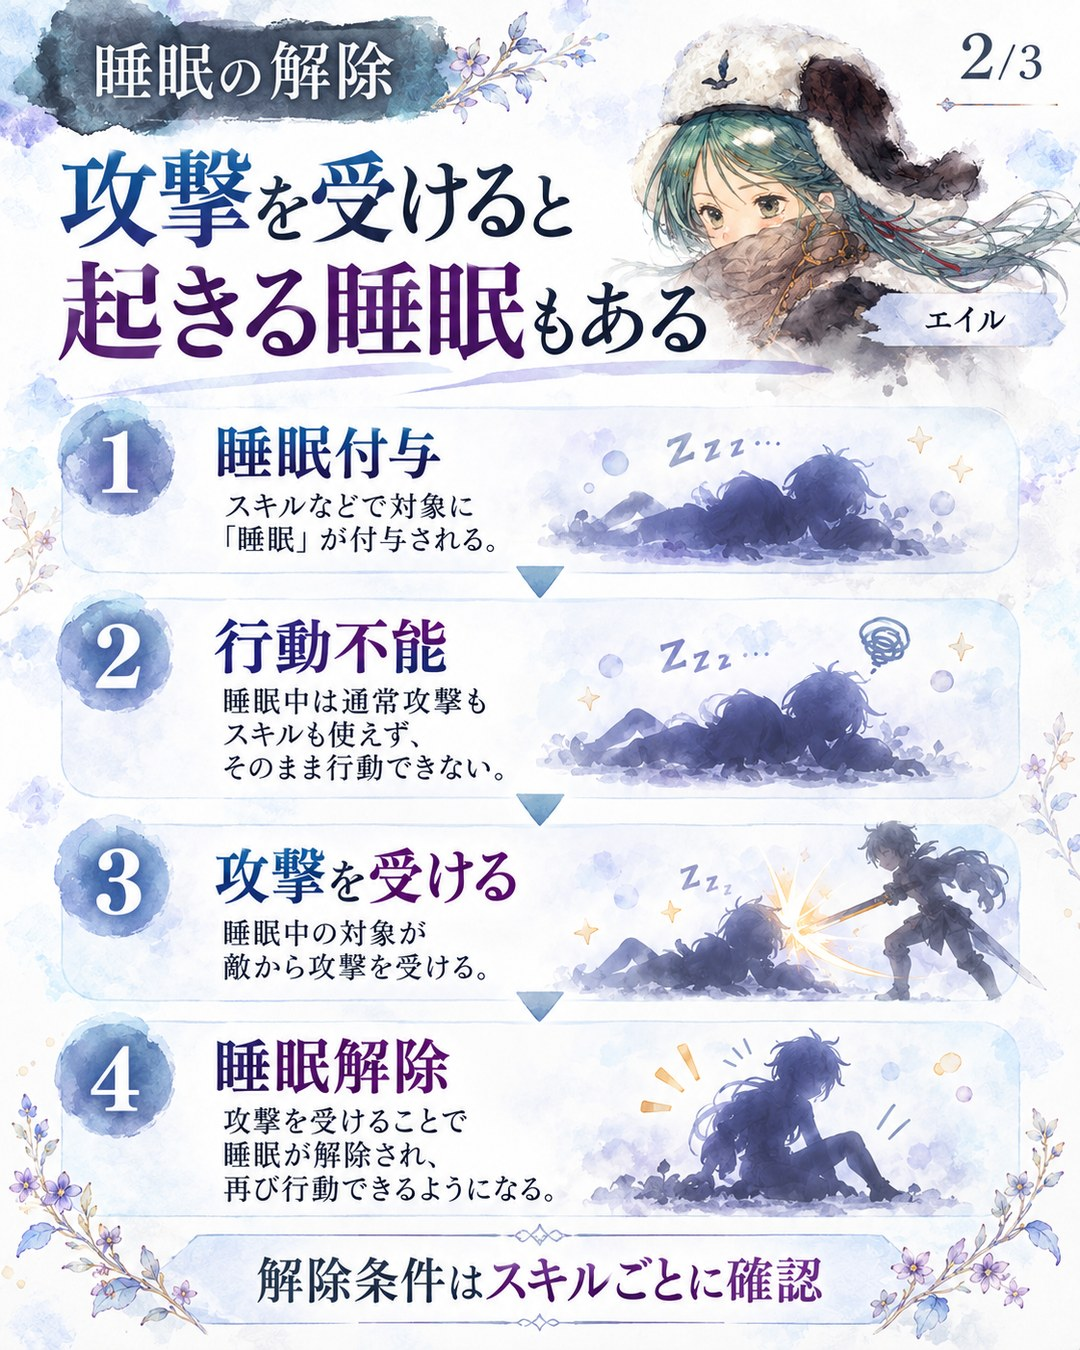
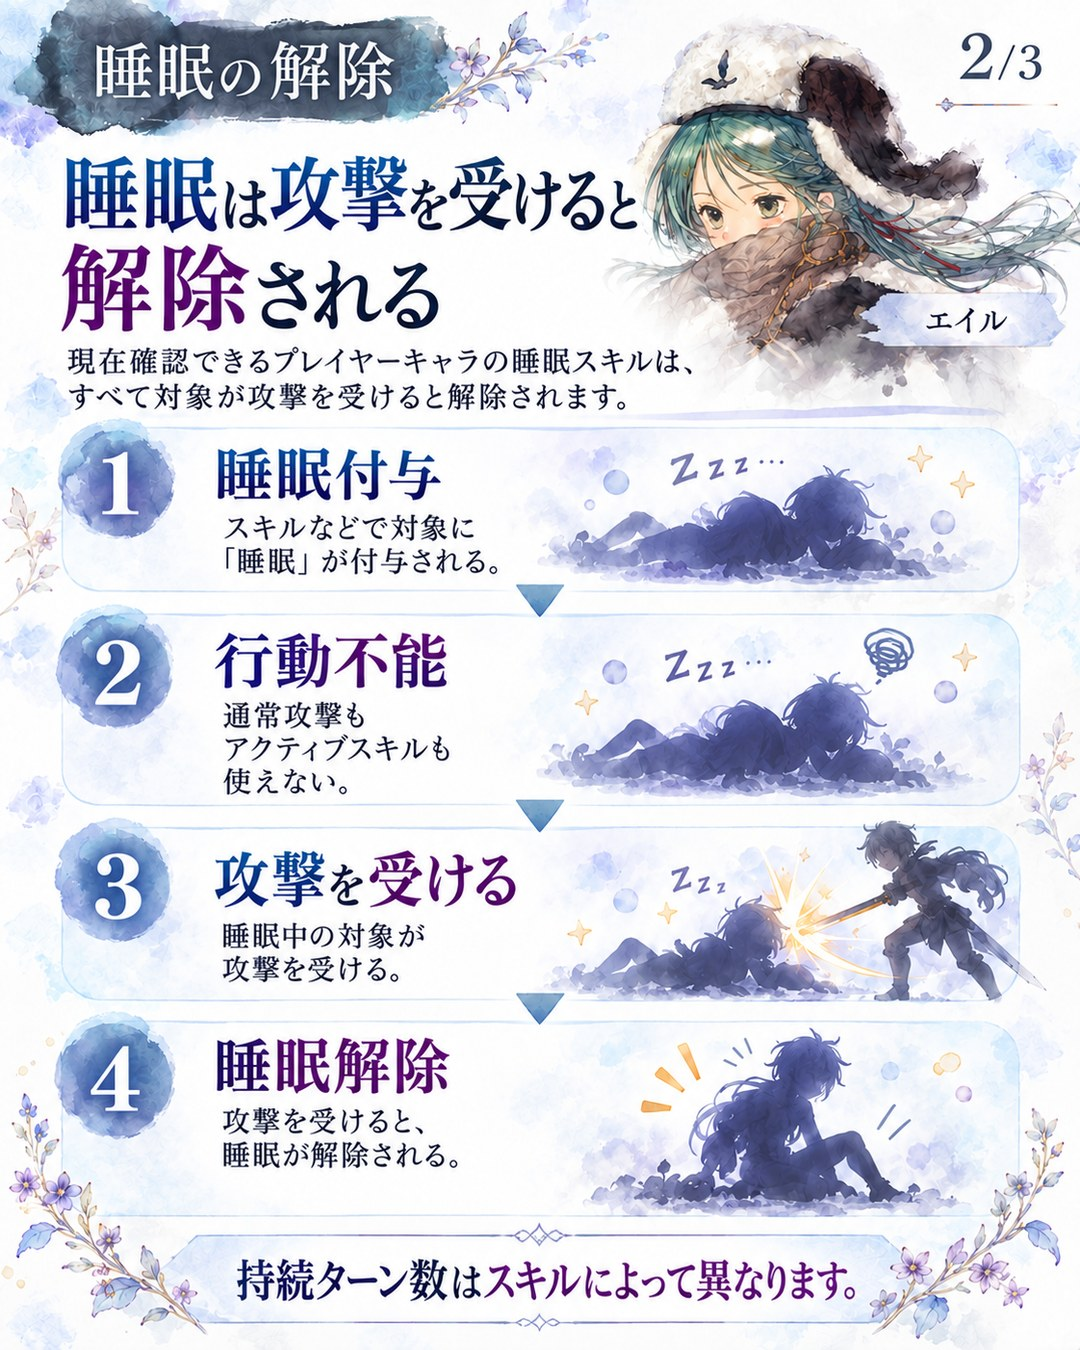
fix(status-guide): 睡眠ガイドの図解2/3・3/3を、攻撃を受けると解除される表現の修正版に差し替える
- assets/status/sleep-guide-m2・m3（jpg・webp）を、ネネ作成の修正版（1080×1350に調整）に差し替え。
  「起きる睡眠もある」「途中解除される場合あり」を、現在確認できる睡眠スキル4つはすべて
  攻撃を受けると解除される、という表現に改めたもの
- data/status/sleep.json の2枚の alt を新しい図の文字に合わせて更新（本文は変更なし）
- 画像URLの中身の印（?v=）が変わるので、古い図は残らない

Claude-Session: https://claude.ai/code/session_01EhzkGay7KDYbnbeZomBtAR

diff --git a/pages/status/sleep.html b/pages/status/sleep.html
@@ -59,18 +59,18 @@
                 </a>
               </figure>
               <figure class="guide-figure-panel" aria-label="2 / 3">
-                <a href="../../assets/status/sleep-guide-m2.jpg?v=04f0203f" aria-label="図2を拡大して開く（3枚中2枚目）">
+                <a href="../../assets/status/sleep-guide-m2.jpg?v=26928ebc" aria-label="図2を拡大して開く（3枚中2枚目）">
                   <picture>
-                    <source type="image/webp" srcset="../../assets/status/sleep-guide-m2.webp?v=5a545f50">
-                    <img src="../../assets/status/sleep-guide-m2.jpg?v=04f0203f" width="1080" height="1350" alt="睡眠の解除2/3。攻撃を受けると起きる睡眠もある。1、睡眠付与。2、行動不能：睡眠中は通常攻撃もスキルも使えない。3、攻撃を受ける。4、睡眠解除：攻撃を受けることで睡眠が解除され、再び行動できるようになる。解除条件はスキルごとに確認" loading="lazy" decoding="async">
+                    <source type="image/webp" srcset="../../assets/status/sleep-guide-m2.webp?v=d4896c38">
+                    <img src="../../assets/status/sleep-guide-m2.jpg?v=26928ebc" width="1080" height="1350" alt="睡眠の解除2/3。睡眠は攻撃を受けると解除される。現在確認できるプレイヤーキャラの睡眠スキルは、すべて対象が攻撃を受けると解除される。1、睡眠付与。2、行動不能：通常攻撃もアクティブスキルも使えない。3、攻撃を受ける：睡眠中の対象が攻撃を受ける。4、睡眠解除：攻撃を受けると睡眠が解除される。持続ターン数はスキルによって異なる" loading="lazy" decoding="async">
                   </picture>
                 </a>
               </figure>
               <figure class="guide-figure-panel" aria-label="3 / 3">
-                <a href="../../assets/status/sleep-guide-m3.jpg?v=787684d0" aria-label="図3を拡大して開く（3枚中3枚目）">
+                <a href="../../assets/status/sleep-guide-m3.jpg?v=ada278e0" aria-label="図3を拡大して開く（3枚中3枚目）">
                   <picture>
-                    <source type="image/webp" srcset="../../assets/status/sleep-guide-m3.webp?v=4c1bcc16">
-                    <img src="../../assets/status/sleep-guide-m3.jpg?v=787684d0" width="1080" height="1350" alt="気絶との違い3/3。気絶と似ているけど「解除条件」が違う。どちらも通常攻撃×・アクティブスキル×。気絶は基本はターン経過で解除される。睡眠は攻撃などで途中解除される場合がある。解除条件と行動順をチェック" loading="lazy" decoding="async">
+                    <source type="image/webp" srcset="../../assets/status/sleep-guide-m3.webp?v=92151159">
+                    <img src="../../assets/status/sleep-guide-m3.jpg?v=ada278e0" width="1080" height="1350" alt="気絶との違い3/3。睡眠は攻撃されると途中で解除される。気絶も睡眠も通常攻撃×・アクティブスキル×。気絶は、被攻撃で解除されるという共通仕様は確認していない。睡眠は、攻撃を受けると解除。現在確認できるプレイヤーキャラの睡眠スキルが対象" loading="lazy" decoding="async">
                   </picture>
                 </a>
               </figure>
